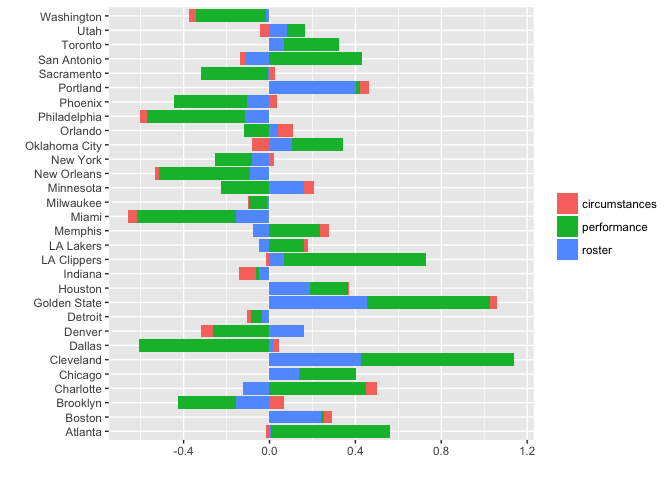
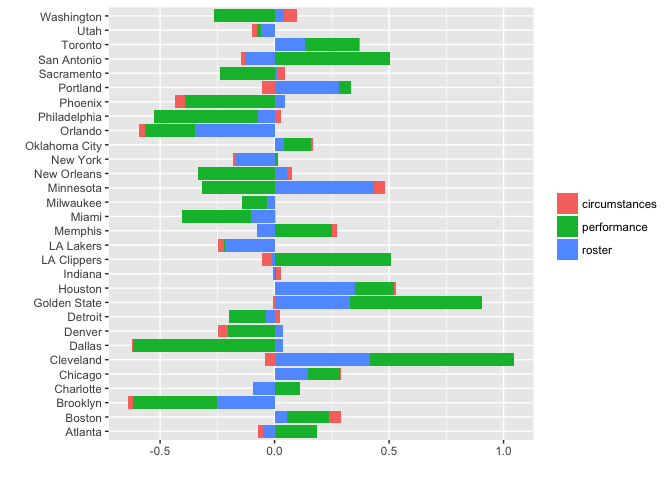
updating readme

diff --git a/readme.md b/readme.md
@@ -167,9 +167,9 @@ library(ggrepel) ## downloaded from github
 
  
 f1 <-
-  "https://raw.githubusercontent.com/klarsen1/NBA_RANKINGS/master/rawdata/FiveThirtyEight_2016-11-20.csv"
+  "https://raw.githubusercontent.com/klarsen1/NBA_RANKINGS/master/rawdata/FiveThirtyEight_2016-11-27.csv"
 f2 <-
-  "https://raw.githubusercontent.com/klarsen1/NBA_RANKINGS/master/rankings/rankings_2016-11-20.csv"
+  "https://raw.githubusercontent.com/klarsen1/NBA_RANKINGS/master/rankings/rankings_2016-11-27.csv"
  
 ft8_rankings <- read.csv(f1) %>% rename(team=selected_team)
  
@@ -177,7 +177,7 @@ all_rankings <- read.csv(f2) %>%
   inner_join(ft8_rankings, by="team") %>%
   mutate(elastic_ranking=min_rank(-season_win_rate),
          FiveThirtyEight=min_rank(-pred_win_rate_538),
-         absdiff=ifelse(abs(elastic_ranking-FiveThirtyEight)>5, 1, 0)) %>%
+         absdiff=ifelse(abs(elastic_ranking-FiveThirtyEight)>5, 0, 1)) %>%
   select(team, conference, division, elastic_ranking, FiveThirtyEight, absdiff) %>%
   arrange(elastic_ranking)
  
@@ -186,36 +186,36 @@ kable(all_rankings)
 
 | team          | conference | division  |  elastic\_ranking|  FiveThirtyEight|  absdiff|
 |:--------------|:-----------|:----------|-----------------:|----------------:|--------:|
-| Cleveland     | East       | Central   |                 1|                2|        0|
-| Golden State  | West       | Pacific   |                 2|                1|        0|
-| LA Clippers   | West       | Pacific   |                 3|                2|        0|
-| Atlanta       | East       | Southeast |                 4|               12|        1|
-| Chicago       | East       | Central   |                 4|                6|        0|
-| Toronto       | East       | Atlantic  |                 6|                5|        0|
-| Portland      | West       | Northwest |                 7|               13|        1|
-| San Antonio   | West       | Southwest |                 8|                4|        0|
-| Houston       | West       | Southwest |                 9|                6|        0|
-| Boston        | East       | Atlantic  |                10|               11|        0|
-| Oklahoma City | West       | Northwest |                10|                9|        0|
-| Charlotte     | East       | Southeast |                12|                9|        0|
-| Utah          | West       | Northwest |                13|                6|        1|
-| Memphis       | West       | Southwest |                14|               13|        0|
-| LA Lakers     | West       | Pacific   |                15|               19|        0|
-| Denver        | West       | Northwest |                16|               17|        0|
-| Orlando       | East       | Southeast |                16|               20|        0|
-| Minnesota     | West       | Northwest |                18|               16|        0|
-| Detroit       | East       | Central   |                19|               15|        0|
-| Indiana       | East       | Central   |                19|               21|        0|
-| Milwaukee     | East       | Central   |                19|               23|        0|
-| New York      | East       | Atlantic  |                22|               18|        0|
-| Sacramento    | West       | Pacific   |                23|               25|        0|
-| Brooklyn      | East       | Atlantic  |                24|               29|        0|
-| Phoenix       | West       | Pacific   |                25|               28|        0|
-| Washington    | East       | Southeast |                25|               21|        0|
-| Dallas        | West       | Southwest |                27|               26|        0|
-| Miami         | East       | Southeast |                27|               23|        0|
-| New Orleans   | West       | Southwest |                27|               27|        0|
-| Philadelphia  | East       | Atlantic  |                30|               30|        0|
+| Cleveland     | East       | Central   |                 1|                2|        1|
+| Golden State  | West       | Pacific   |                 2|                1|        1|
+| LA Clippers   | West       | Pacific   |                 3|                4|        1|
+| San Antonio   | West       | Southwest |                 4|                2|        1|
+| Chicago       | East       | Central   |                 5|                6|        1|
+| Houston       | West       | Southwest |                 5|                7|        1|
+| Toronto       | East       | Atlantic  |                 7|                5|        1|
+| Portland      | West       | Northwest |                 8|               14|        0|
+| Atlanta       | East       | Southeast |                 9|               12|        1|
+| Memphis       | West       | Southwest |                10|               12|        1|
+| Boston        | East       | Atlantic  |                11|                9|        1|
+| Minnesota     | West       | Northwest |                12|               18|        0|
+| Oklahoma City | West       | Northwest |                13|               10|        1|
+| Charlotte     | East       | Southeast |                14|               11|        1|
+| Indiana       | East       | Central   |                15|               19|        1|
+| Utah          | West       | Northwest |                15|                7|        0|
+| Detroit       | East       | Central   |                17|               15|        1|
+| Denver        | West       | Northwest |                18|               16|        1|
+| Milwaukee     | East       | Central   |                18|               23|        1|
+| LA Lakers     | West       | Pacific   |                20|               19|        1|
+| New York      | East       | Atlantic  |                20|               17|        1|
+| Sacramento    | West       | Pacific   |                22|               23|        1|
+| New Orleans   | West       | Southwest |                23|               22|        1|
+| Washington    | East       | Southeast |                24|               19|        1|
+| Phoenix       | West       | Pacific   |                25|               28|        1|
+| Miami         | East       | Southeast |                26|               23|        1|
+| Philadelphia  | East       | Atlantic  |                27|               29|        1|
+| Orlando       | East       | Southeast |                28|               26|        1|
+| Brooklyn      | East       | Atlantic  |                29|               29|        1|
+| Dallas        | West       | Southwest |                30|               27|        1|
 
 ``` r
 ggplot(all_rankings, aes(x=elastic_ranking, y=FiveThirtyEight)) +
@@ -233,7 +233,7 @@ ggplot(all_rankings, aes(x=elastic_ranking, y=FiveThirtyEight)) +
 
 The table shows that the elastic rankings generally agree with FiveThirtyEight -- at least when it comes to the "tail teams." For example, all rankings agree that Golden State, Cleveland and the Clippers will have strong seasons, while Philadelphia and New Orleans will struggle to win games.
 
-But what about Atlanta? The elastic model ranks Atlanta fifth in terms of overall win percentage, while FiveThirtyEight ranks Atlanta at number 12 (as of 2016-11-20). To understand why the elastic model is doing this, we can decompose the predictions into three parts:
+But what about Atlanta? The elastic model ranks Atlanta ninth in terms of overall win percentage, while FiveThirtyEight ranks Atlanta at number 12 (as of 2016-11-27). To understand why the elastic model is doing this, we can decompose the predictions into three parts:
 
 -   Roster -- archetype allocation deficits/surpluses. These are the variables labeled "share\_minutes\_cluster\_XX" described above. This group of variables reflects the quality of the roster.
 -   Performance -- e.g., win percentages, previous match-ups.
@@ -248,7 +248,7 @@ library(knitr)
 library(ggplot2)
 
 f <-
-  "https://raw.githubusercontent.com/klarsen1/NBA_RANKINGS/master/modeldetails/score_decomp_2016-11-20.csv"
+  "https://raw.githubusercontent.com/klarsen1/NBA_RANKINGS/master/modeldetails/score_decomp_2016-11-27.csv"
  
 center <- function(x){return(x-median(x))}
 read.csv(f, stringsAsFactors = FALSE) %>%
@@ -276,7 +276,7 @@ Last, but not least, let's take a look at San Antonio and the Timberwolves -- tw
 Backtesting
 -----------
 
-The model was used to predict all games from 2015-11-20 to the end the 2015-2016 season, using only information available as of 2015-11-19 (including model coefficients). This is roughly a five month forecast window (the season ends in April); most teams played around 70 games during this period. I picked this date because the latest model-run for this post was 2016-11-20.
+The model was used to predict all games from 2015-11-20 to the end the 2015-2016 season, using only information available as of 2015-11-19 (including model coefficients). This is roughly a five month forecast window (the season ends in April); most teams played around 70 games during this period.
 
 The game level accuracy (using 50% as the probability cutoff to declare winners) for the entire period was 65.8% -- i.e., the model predicted the correct winner for 65.8% of games.
 
@@ -366,3 +366,7 @@ The model currently does not capture any interaction between the archetypes. I h
 ### Schedule-independent Team Rankings
 
 Currently, the model ranks teams by predicting win rates. This means that, holding everything else constant, the rankings implicitly favor teams that play in weaker divisions. A future development could be to have two rankings: one that predicts the win rate given the current schedule (this is what the model is currently doing), and one that normalizes for schedule differences.
+
+### Uncertainty
+
+As stated above, the model uses a deterministic approach to decide the winner. If the win-probability estimated by the logistic regression model exceeds 50% for a given team, that team is chosen as the winner. As a result, the model can be somewhat extreme in its predictions. For example, the model believes that Golden State will win almost every future game -- when in reality they'l' likely lose some unexpected games. Having a better sense of uncertainty would could create more realistic win rate predictions for tail teams.
